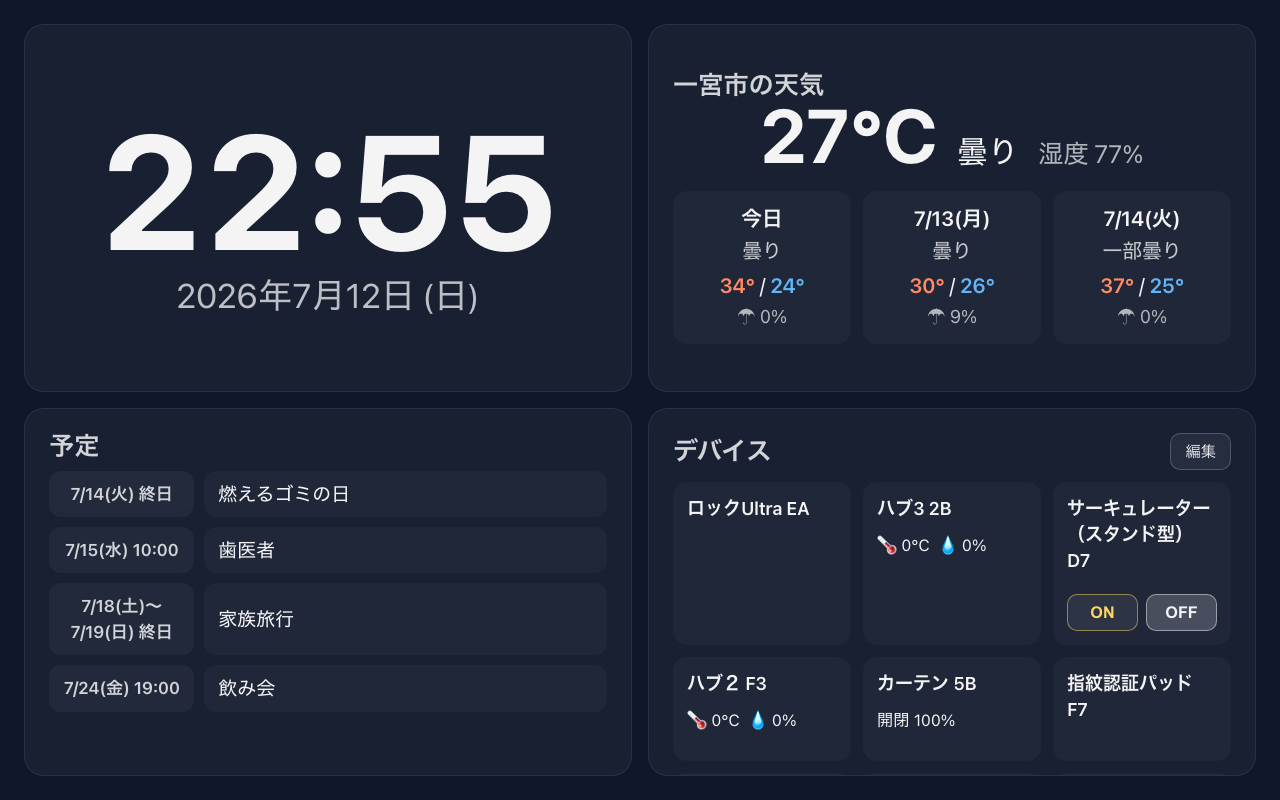
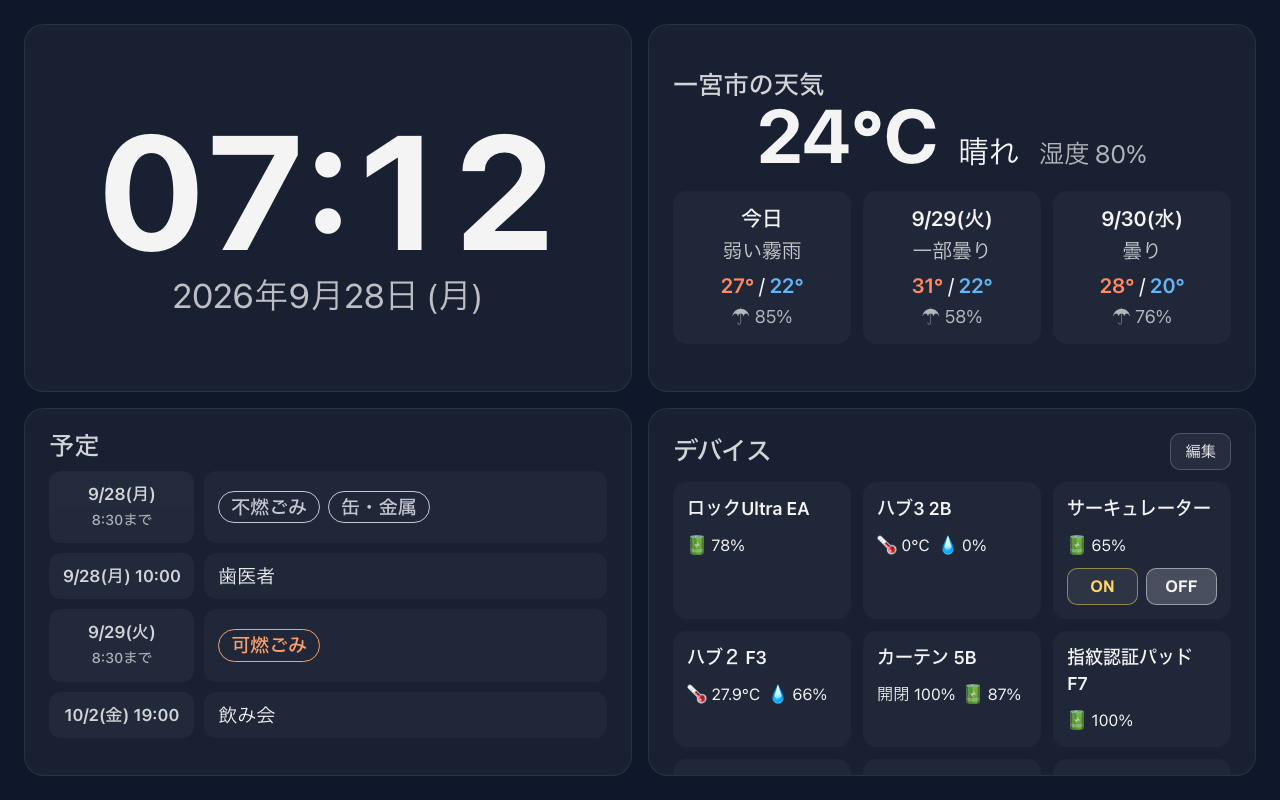
READMEを最新の機能に合わせて更新し、スクリーンショットを差し替え
- 通常画面のスクリーンショットを、ごみ収集日の表示が入ったもの (予定はダミー) に差し替え
- 朝モードのスクリーンショットを追加
- 主な機能の一覧、Eufy体重計→Google Sheets 同期の設定手順、デプロイ後の再読み込みの注意を追記

diff --git a/README.md b/README.md
@@ -1,17 +1,35 @@
 # ホームダッシュボード
 
-SwitchBotデバイスの状態、天気、Appleカレンダーの予定を1画面にまとめて表示する
+SwitchBotデバイスの状態、天気、Appleカレンダーの予定、ごみ収集日を1画面にまとめて表示する
 Webアプリ。Fireタブレット + Fully Kiosk Browser (または Chrome) でのキオスク表示を
 想定した、Echo Show 15 / SwitchBotスマートデイリーステーションのようなダッシュボード。
 
 ![ダッシュボード画面](docs/screenshot.png)
 
+*通常画面: 時計・天気・予定 (今日と明日のごみ収集日を含む)・SwitchBotデバイス*
+
+![朝モード画面](docs/screenshot-morning.png)
+
+*朝モード (毎朝 6:00〜7:30): バイクで出かけられるかの判定・1時間ごとの雨・今日のごみ出し・今日の予定*
+
+## 主な機能
+
+- **時計・天気**: 現在の天気と3日分の予報
+- **予定**: iCloud カレンダーの予定に加え、今日 (出す締切まで) と明日のごみ収集日を色分けして表示
+- **SwitchBotデバイス**: 状態表示とタップでの ON/OFF 操作
+- **朝モード**: 毎朝決まった時間だけ、出かける前に確認したい情報を大きく表示 ([詳細](#朝モード))
+- **画面の常時点灯と明るさの自動調整**: Chrome では画面が暗くならないように、Fully Kiosk Browser では
+  部屋の明るさに合わせて画面の明るさを変える ([詳細](#fireタブレットでの表示設定))
+- **Eufy体重計の記録**: 測定データを Google Sheets へ定期的に同期 ([詳細](#eufy体重計の測定データを-google-sheets-へ同期する))
+
 ## 構成
 
 ```
 home-dashboard/
-  backend/   Express製のAPIプロキシ。SwitchBot/iCloud/天気への認証情報はここだけに置く
-  frontend/  React (Vite) 製のダッシュボードUI。PWA対応
+  backend/            Express製のAPIプロキシ。SwitchBot/iCloud/Eufy/Google への認証情報はここだけに置く
+  frontend/           React (Vite) 製のダッシュボードUI。PWA対応
+  .github/workflows/  Renderのスリープ防止 (keepalive) と Eufy→Google Sheets 同期の定期実行
+  docs/               README用のスクリーンショット
 ```
 
 本番では `backend` が `frontend/dist` の静的ファイルも配信するため、デプロイ先は
@@ -81,6 +99,8 @@ npm run dev              # http://localhost:5173 (→ /api は自動的にbacken
    - `ICLOUD_APPLE_ID` / `ICLOUD_APP_PASSWORD` / (任意) `ICLOUD_CALENDAR_NAMES`
    - `WEATHER_LAT` / `WEATHER_LON`
    - `ICHINOMIYA_GOMI_RENKU` / (任意) `ICHINOMIYA_GOMI_AREA`
+   - (Eufy同期を使う場合) `EUFY_EMAIL` / `EUFY_PASSWORD` / `GOOGLE_SHEETS_SPREADSHEET_ID` /
+     `GOOGLE_SHEETS_SHEET_NAME` / `GOOGLE_SERVICE_ACCOUNT_EMAIL` / `GOOGLE_SERVICE_ACCOUNT_PRIVATE_KEY` / `SYNC_SECRET`
 4. デプロイ後に発行されるURL (`https://xxxx.onrender.com`) がダッシュボードのURL
 
 Render無料枠は一定時間アクセスがないとスリープし、次回アクセス時に再起動で
@@ -131,6 +151,26 @@ Android 5 対応の最終版 [1.59.2](https://www.fully-kiosk.com/files/2025/10/
 右上の「通常表示へ」を押すと、その日は朝モードを出しません。表示時間帯やバイク判定のしきい値は
 `frontend/src/morning.js` の先頭で変更できます。URLに `?mode=morning` を付けると時刻に関係なく
 朝モードを表示できます (見た目の確認用)。
+
+## Eufy体重計の測定データを Google Sheets へ同期する
+
+Eufy Smart Scale の測定履歴 (体重・体脂肪率・筋肉量・BMI など) を、Eufyの非公式クラウドAPIから取得して
+Google Sheets に追記します。GitHub Actions (`.github/workflows/eufy-sync.yml`) が15分ごとに
+`POST /api/eufy/sync` を呼び出し、シートに未記録の測定だけを追加します。
+
+1. Google Cloud でサービスアカウントを作成し、Google Sheets API を有効にして秘密鍵 (JSON) を発行する
+2. 書き込み先のスプレッドシートの共有設定に、サービスアカウントのメールアドレスを「編集者」として追加する
+3. Render の環境変数に `EUFY_*` / `GOOGLE_*` / `SYNC_SECRET` を設定する (値の書式は `backend/.env.example` を参照)
+4. GitHub リポジトリの Settings → Secrets and variables → Actions に、`SYNC_SECRET` と同じ値を
+   `EUFY_SYNC_SECRET` という名前で登録する
+
+体重計を使った人ごとの最新の測定値は `GET /api/eufy/weight` で取得できます (iOSショートカットから
+Apple ヘルスケアへ記録する用途を想定)。
+
+## 更新をデプロイしたあと
+
+ダッシュボードを開きっぱなしのタブレットでは、デプロイ後も古い版のプログラムが動き続けます。
+表示がおかしくなったら、ページの再読み込みかブラウザアプリの再起動をしてください。
 
 ## 今後拡張したい場合のメモ
 
